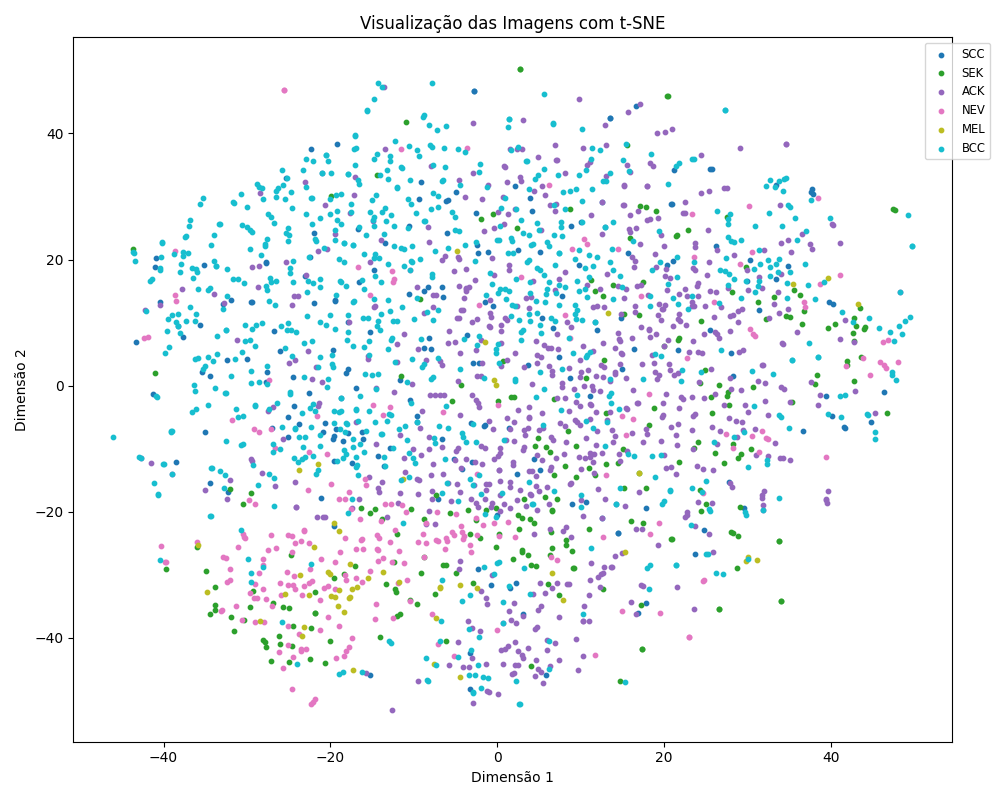
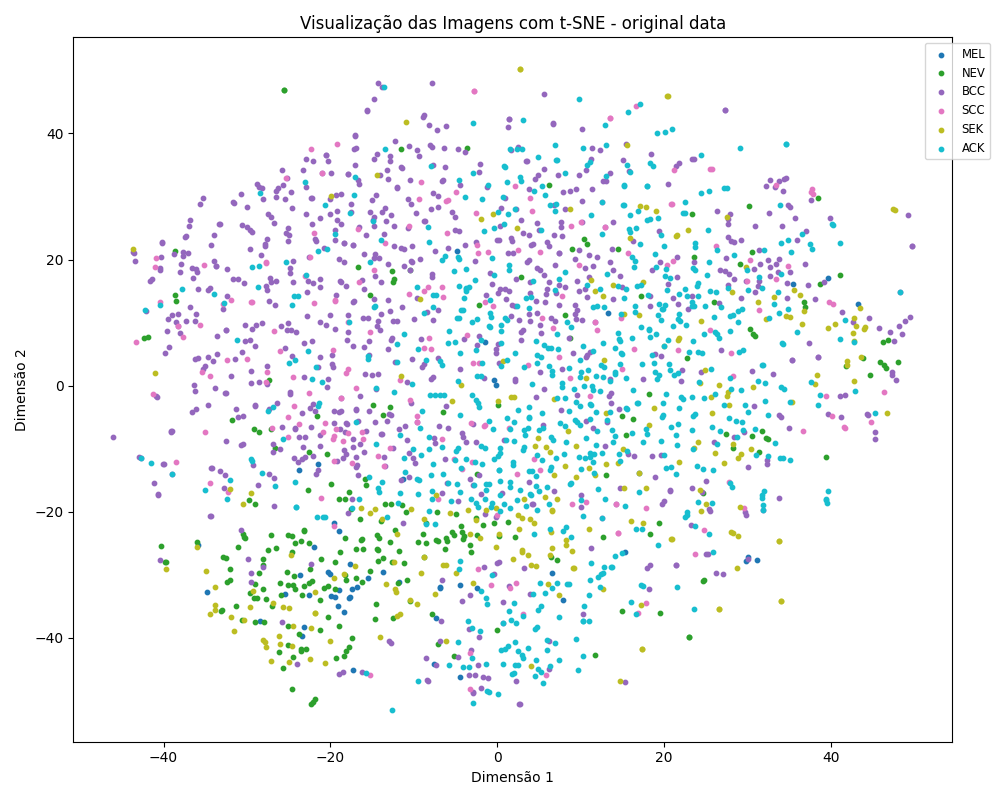
feature: Adição do random undersampling

diff --git a/src/tsne.py b/src/tsne.py
@@ -6,14 +6,17 @@ import matplotlib.pyplot as plt
 from sklearn.manifold import TSNE
 import torch
 from torchvision import models, transforms
-import utils
 from utils import plot_tsne
+from sklearn.utils import resample
+from collections import Counter
+from tqdm import tqdm
 
 class TSNE_PROCESS():
-    def __init__(self, folder_path, img_size=(112,112)):
+    def __init__(self, folder_path: str, img_size=(112,112), use_random_undersampling: bool = False):
         self.img_size=img_size
         self.folder_path=folder_path
-        
+        self.use_randomundersampling=use_random_undersampling
+
     def load_images_from_folder(self):
         ''' Função usada para carregar as imagens a serem por meio dos dados do 'metadata.csv' '''
         images = []
@@ -38,8 +41,46 @@ class TSNE_PROCESS():
             img = cv2.resize(img, self.img_size)  # Redimensiona para tamanho fixo
             images.append(img)
             labels.append(row["diagnostic"])  # Usa o diagnóstico como rótulo
-
+        
+        # Verificar se é para usar random undersampling ou não
+        if (self.use_randomundersampling is True):
+            # Balancear as classes
+            balanced_images, balanced_labels = self.random_undersampling(images, labels)
+            return balanced_images, balanced_labels
         return np.array(images), labels
+
+    def random_undersampling(self, images, labels):
+        balanced_images = []
+        balanced_labels = []
+
+        # Converter labels para array numpy para facilitar manipulação
+        labels = np.array(labels)
+
+        # Encontrar o número mínimo de amostras por classe
+        min_samples = min(Counter(labels).values())
+
+        for label in np.unique(labels):
+            # Obter índices das amostras da classe atual
+            class_indices = np.where(labels == label)[0]
+
+            # Realizar amostragem aleatória dentro da classe
+            sampled_indices = resample(
+                class_indices,
+                replace=False,
+                n_samples=min_samples,
+                random_state=42
+            )
+
+            # Adicionar imagens e rótulos balanceados
+            balanced_images.extend(images[i] for i in sampled_indices)
+            balanced_labels.extend(labels[i] for i in sampled_indices)
+
+        # Converter para arrays numpy
+        balanced_images = np.array(balanced_images)
+        balanced_labels = np.array(balanced_labels)
+
+        return balanced_images, balanced_labels
+
 
 
     def extract_features(self, images):
@@ -78,17 +119,17 @@ class TSNE_PROCESS():
 if __name__ == "__main__":
     ''' Execução do pipeline dos processos a serem executados '''
     # Caminho para o dataset
-    folder_path = "/home/wytcor/PROJECTs/mestrado-ufes/lab-life/datasets/zr7vgbcyr2-1" # Pode estar em /data
-    img_size= (112,112) # Shape das imagens
+    folder_path = "/home/wytcor/PROJECTs/mestrado-ufes/lab-life/datasets/zr7vgbcyr2-1" # Pode estar em '/data'
+    img_size = (112, 112) # Shape das imagens
     
     # Instanciar o novo processo a do TSNE
-    tsne_process=TSNE_PROCESS(folder_path, img_size)
+    tsne_process = TSNE_PROCESS(folder_path, img_size, use_random_undersampling=False)
     
-    # Carregar imagens e rótulos
+    # Carregar imagens e dos labels
     images, labels = tsne_process.load_images_from_folder()
-
-    # Extrair features usando ResNet18
-    print("Extraindo features das imagens...")
+    
+    # Extrair features usando ResNet50. O extrator de features por ser mudado
+    print("Extraindo features das imagens ...")
     features = tsne_process.extract_features(images)
 
     # Aplicar t-SNE para redução de dimensionalidade
@@ -98,5 +139,5 @@ if __name__ == "__main__":
 
     # Plotar os resultados
     print("Plotando resultados...")
-    plot_tsne.plot_tsne(images_tsne, labels, tsne_image_folder_path="./src/results/tsne_resnet50.png")
+    plot_tsne.plot_tsne(images_tsne, labels, title="Visualização das Imagens com t-SNE - original data", tsne_image_folder_path="./src/results/tsne_resnet50.png")
 

diff --git a/src/utils/plot_tsne.py b/src/utils/plot_tsne.py
@@ -1,17 +1,25 @@
 import numpy as np
 import matplotlib.pyplot as plt
 
-def plot_tsne(images_tsne, labels, tsne_image_folder_path="./src/results/tsne_resnet18.png"):
-    ''' Função para plotar o resultado do t-SNE '''
+def plot_tsne(images_tsne, labels, title="Visualização das Imagens com t-SNE", tsne_image_folder_path="./src/results/tsne_resnet18.png"):
     plt.figure(figsize=(10, 8))
     unique_labels = list(set(labels))
-    colors = plt.cm.tab10(np.linspace(0, 1, len(unique_labels)))  # Cores diferentes para cada classe
+    colors = plt.cm.tab10(np.linspace(0, 1, len(unique_labels)))
 
     for i, label in enumerate(unique_labels):
         indices = [j for j, lbl in enumerate(labels) if lbl == label]
-        plt.scatter(images_tsne[indices, 0], images_tsne[indices, 1], label=label, color=colors[i], s=10)
+        indices = [j for j in indices if j < len(images_tsne)]  # Evitar índices fora dos limites
 
-    plt.title("Visualização das Imagens com t-SNE")
+        if indices:  # Certifique-se de que há dados para a classe atual
+            plt.scatter(
+                images_tsne[indices, 0],
+                images_tsne[indices, 1],
+                label=label,
+                color=colors[i],
+                s=10
+            )
+
+    plt.title(title)
     plt.xlabel("Dimensão 1")
     plt.ylabel("Dimensão 2")
     plt.legend(loc="best", bbox_to_anchor=(1.05, 1), fontsize='small')
